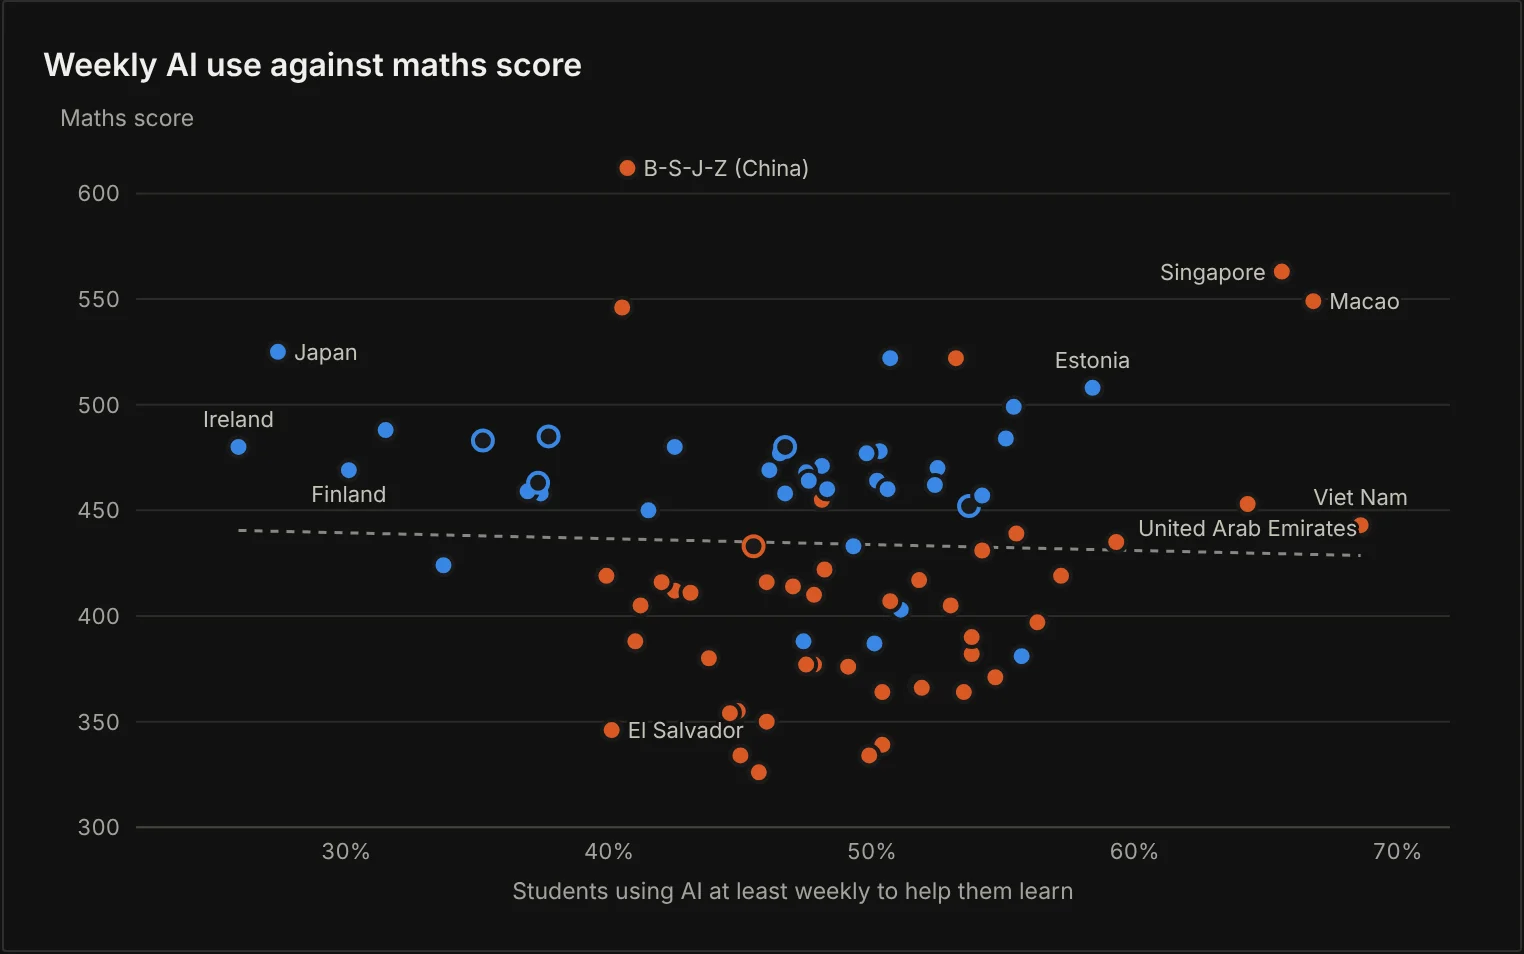
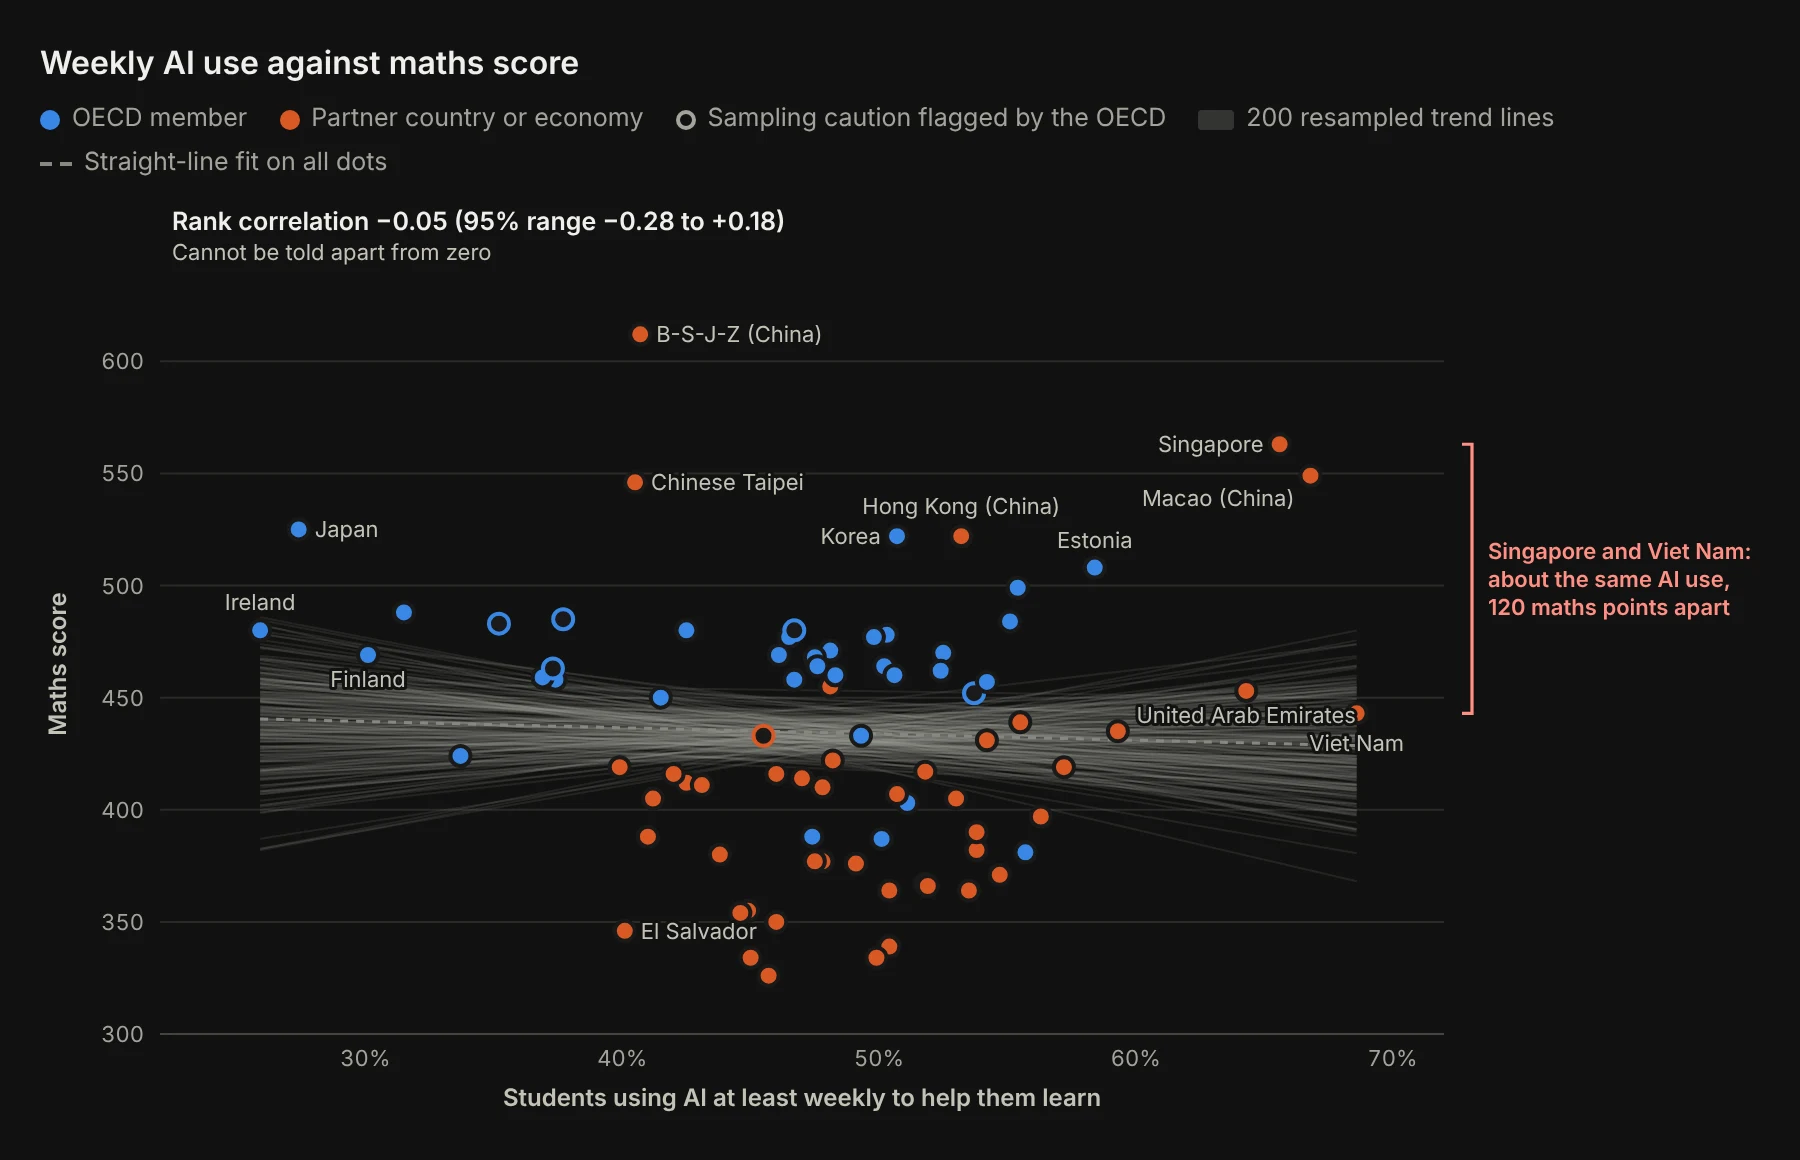
PISA: AI scatter with bootstrap trend-line fan, labeled axes on every chart, refreshed daily feature
The AI-vs-maths scatter now shows 200 resampled trend lines, an in-chart correlation label, a Singapore/Viet Nam bracket and labels for every country above 500. Y-axis titles sit beside the ticks, the correlation chart gets axis titles, and the pz-ai feature snapshot includes the legend.

Claude-Session: https://claude.ai/code/session_01UJ1HEyH6uF5w3cQEo98E3x

diff --git a/pisa-2025/index.html b/pisa-2025/index.html
@@ -56,10 +56,11 @@ b, strong { font-weight: 600; }
 .legend li { display: inline-flex; align-items: center; gap: 6px; }
 .sw { display: inline-block; width: 10px; height: 10px; border-radius: 50%; flex: none; }
 .sw.hollow { background: transparent; border: 2px solid var(--muted); }
+.sw.fan { width: 18px; height: 10px; border-radius: 2px; background: color-mix(in srgb, var(--ref) 28%, transparent); }
 .sw.dash { width: 16px; height: 0; border-radius: 0; border-top: 2px dashed var(--ref); }
 .tick { font-size: 11px; fill: var(--muted); font-variant-numeric: tabular-nums; }
 .lab { font-size: 11px; fill: var(--second); paint-order: stroke; stroke: var(--bg); stroke-width: 3px; stroke-linejoin: round; }
-.axl { font-size: 11.5px; fill: var(--muted); }
+.axl { font-size: 12px; font-weight: 600; fill: var(--second); }
 .gl { stroke: var(--grid); stroke-width: 1; }
 .al { stroke: var(--axis); stroke-width: 1; }
 .rf { stroke: var(--ref); stroke-width: 1.5; stroke-dasharray: 4 4; fill: none; }
@@ -150,9 +151,9 @@ th { position: sticky; top: 0; background: var(--panel); font-weight: 600; }
     <p>"Blame" is about change, not level, so the fairer test is AI use against the 2022-to-2025 change in maths: <b data-f="rAiCh"></b> across <b data-f="nAiCh"></b> countries <span class="badge" data-b="aiChange"></span>. Science (the main subject of PISA 2025), reading and computational problem solving give the same answer: <b data-f="rAiSci"></b>, <b data-f="rAiRead"></b> and <b data-f="rAiCps"></b>. Split by group the sign differs, <b data-f="rAiO"></b> among the 38 OECD members and <b data-f="rAiN"></b> among partners, but neither can be told apart from zero. Singapore and Viet Nam both have about two-thirds of students using AI at least weekly and sit 120 points apart; Japan and Ireland use it least and both sit above the 38 OECD members' mean of <b data-f="oecdMath"></b>.</p>
     <div class="card">
       <h3>Weekly AI use against maths score</h3>
-      <ul class="legend"><li><span class="sw" style="background:var(--s1)"></span>OECD member</li><li><span class="sw" style="background:var(--s2)"></span>Partner country or economy</li><li><span class="sw hollow"></span>Sampling caution flagged by the OECD</li><li><span class="sw dash"></span>Straight-line fit</li></ul>
+      <ul class="legend"><li><span class="sw" style="background:var(--s1)"></span>OECD member</li><li><span class="sw" style="background:var(--s2)"></span>Partner country or economy</li><li><span class="sw hollow"></span>Sampling caution flagged by the OECD</li><li><span class="sw fan"></span>200 resampled trend lines</li><li><span class="sw dash"></span>Straight-line fit on all dots</li></ul>
       <div class="chart" id="c-ai"></div>
-      <p class="note">Each dot is one country or economy. Share of students who say they use AI at least once a week to help them learn. Six systems did not report the AI questions and are left out.</p>
+      <p class="note">Each dot is one country or economy. Share of students who say they use AI at least once a week to help them learn. Six systems did not report the AI questions and are left out. The y-axis starts at 300, not zero. The faint grey lines are straight-line fits to 200 resamples of the countries: they lean up and down about equally, which is what no detectable link looks like. Hover a dot for details.</p>
     </div>
   </section>
 
@@ -256,7 +257,7 @@ document.querySelectorAll("[data-b]").forEach(e=>{const o=B[e.dataset.b];e.textC
 function tipFor(el){let t=el.querySelector(".tip");if(!t){t=document.createElement("div");t.className="tip";t.hidden=true;el.appendChild(t)}return t}
 function scatter(id,o){
   const el=document.getElementById(id);el.querySelectorAll("svg").forEach(s=>s.remove());
-  const W=el.clientWidth,Ht=o.h||Math.max(300,Math.min(460,W*.56)),m={t:12,r:16,b:42,l:46};
+  const W=el.clientWidth,Ht=o.h||Math.max(300,Math.min(460,W*.56)),m={t:o.stat?48:12,r:o.bracket?(W<560?62:158):16,b:42,l:60};
   const rows=D.filter(d=>d[o.x]!=null&&d[o.y]!=null);
   const x=d3.scaleLinear().domain(o.xd).range([m.l,W-m.r]),y=d3.scaleLinear().domain(o.yd).range([Ht-m.b,m.t]);
   const svg=d3.select(el).append("svg").attr("width",W).attr("height",Ht).attr("role","img").attr("aria-label",o.aria);
@@ -265,8 +266,11 @@ function scatter(id,o){
     svg.append("text").attr("class","tick").attr("x",m.l-8).attr("y",y(t)+4).attr("text-anchor","end").text(yf(t))});
   x.ticks(W<480?4:6).forEach(t=>svg.append("text").attr("class","tick").attr("x",x(t)).attr("y",Ht-m.b+16).attr("text-anchor","middle").text(xf(t)));
   svg.append("line").attr("class","al").attr("x1",m.l).attr("x2",W-m.r).attr("y1",Ht-m.b).attr("y2",Ht-m.b);
-  svg.append("text").attr("class","axl").attr("x",(m.l+W-m.r)/2).attr("y",Ht-6).attr("text-anchor","middle").text(o.xl);
-  svg.append("text").attr("class","axl").attr("x",m.l-38).attr("y",m.t-2).text(o.yl);
+  {const xt=svg.append("text").attr("class","axl").attr("x",(m.l+W-m.r)/2).attr("y",Ht-6).attr("text-anchor","middle").text(o.xl);if(xt.node().getBBox().width>W-8)xt.text(o.xl.replace("at least weekly to help them learn","weekly to learn"))}
+  svg.append("text").attr("class","axl").attr("transform",`translate(13,${(m.t+Ht-m.b)/2}) rotate(-90)`).attr("text-anchor","middle").text(o.yl);
+  if(o.fan){let sd=7;const rnd=()=>{sd|=0;sd=sd+0x6D2B79F5|0;let t=Math.imul(sd^sd>>>15,1|sd);t=t+Math.imul(t^t>>>7,61|t)^t;return((t^t>>>14)>>>0)/4294967296},n=rows.length,x0=d3.min(rows,d=>d[o.x]),x1=d3.max(rows,d=>d[o.x]);
+    for(let k=0;k<200;k++){const idx=Array.from({length:n},()=>Math.floor(rnd()*n)),mx=d3.mean(idx,i=>rows[i][o.x]),my=d3.mean(idx,i=>rows[i][o.y]),dn=d3.sum(idx,i=>(rows[i][o.x]-mx)**2);if(!dn)continue;
+      const b=d3.sum(idx,i=>(rows[i][o.x]-mx)*(rows[i][o.y]-my))/dn,a=my-b*mx;svg.append("line").attr("x1",x(x0)).attr("y1",y(a+b*x0)).attr("x2",x(x1)).attr("y2",y(a+b*x1)).attr("stroke","var(--muted)").attr("stroke-opacity",.13).attr("stroke-width",1)}}
   if(o.diag){const a=Math.max(o.xd[0],o.yd[0]),b=Math.min(o.xd[1],o.yd[1]);svg.append("line").attr("class","rf").attr("x1",x(a)).attr("y1",y(a)).attr("x2",x(b)).attr("y2",y(b))}
   else{const mx=d3.mean(rows,d=>d[o.x]),my=d3.mean(rows,d=>d[o.y]);const b=d3.sum(rows,d=>(d[o.x]-mx)*(d[o.y]-my))/d3.sum(rows,d=>(d[o.x]-mx)**2),a=my-b*mx;
     const x0=d3.min(rows,d=>d[o.x]),x1=d3.max(rows,d=>d[o.x]);svg.append("line").attr("class","rf").attr("x1",x(x0)).attr("y1",y(a+b*x0)).attr("x2",x(x1)).attr("y2",y(a+b*x1))}
@@ -275,7 +279,14 @@ function scatter(id,o){
   g.selectAll("circle").data(rows).join("circle").attr("cx",d=>x(d[o.x])).attr("cy",d=>y(d[o.y])).attr("r",5)
     .attr("fill",d=>d.caution==="Yes"?"var(--panel)":col(d)).attr("stroke",d=>d.caution==="Yes"?col(d):"var(--panel)").attr("stroke-width",2);
   (o.labels||[]).forEach(([c,dx,dy,anc,txt])=>{const d=rows.find(r=>r.country===c);if(!d)return;
-    svg.append("text").attr("class","lab").attr("x",x(d[o.x])+dx).attr("y",y(d[o.y])+dy).attr("text-anchor",anc||"start").text(txt||c)});
+    const t=svg.append("text").attr("class","lab").attr("x",x(d[o.x])+dx).attr("y",y(d[o.y])+dy).attr("text-anchor",anc||"start").text(txt||c),bb=t.node().getBBox();
+    if(bb.x+bb.width>W-m.r-2){t.attr("text-anchor","end").attr("x",x(d[o.x])-Math.max(8,Math.abs(dx))).attr("y",y(d[o.y])+Math.max(dy,12))}
+    else if(bb.x<m.l-2){t.attr("text-anchor","start").attr("x",x(d[o.x])+Math.max(8,Math.abs(dx)))}});
+  if(o.stat){svg.append("text").attr("class","lab").style("fill","var(--fg)").style("font-weight",600).style("font-size","12.5px").attr("x",m.l+6).attr("y",m.t-32).text(o.stat[0]);svg.append("text").attr("class","lab").attr("x",m.l+6).attr("y",m.t-17).text(o.stat[1])}
+  if(o.bracket){const a=rows.find(r=>r.country===o.bracket[0]),b=rows.find(r=>r.country===o.bracket[1]),bx=W-m.r+14,ya=y(a[o.y]),yb=y(b[o.y]),gap=Math.round(Math.abs(a[o.y]-b[o.y])),
+      lines=W<560?[gap+" points","apart"]:[o.bracket[0]+" and "+o.bracket[1]+":","about the same AI use,",gap+" maths points apart"];
+    svg.append("path").attr("d",`M${bx-5},${ya}H${bx}V${yb}H${bx-5}`).attr("fill","none").attr("stroke","var(--pen)").attr("stroke-width",1.6);
+    lines.forEach((ln,i)=>svg.append("text").attr("class","lab").style("fill","var(--pen)").style("font-weight",600).attr("x",bx+8).attr("y",(ya+yb)/2-(lines.length-1)*7+i*14+4).text(ln))}
   const tip=tipFor(el),del=d3.Delaunay.from(rows,d=>x(d[o.x]),d=>y(d[o.y]));let cur=null;
   svg.on("pointermove",ev=>{const [px,py]=d3.pointer(ev);const i=del.find(px,py),d=rows[i];
     if(Math.hypot(x(d[o.x])-px,y(d[o.y])-py)>28){hide();return}
@@ -287,15 +298,17 @@ function scatter(id,o){
 }
 function corr(id){
   const el=document.getElementById(id);el.querySelectorAll("svg").forEach(s=>s.remove());
-  const W=el.clientWidth,rows=S.vsMath,narrow=W<560,rh=narrow?52:38,m={t:22,r:20,b:28,l:narrow?12:330},Ht=m.t+rows.length*rh+m.b;
+  const W=el.clientWidth,rows=S.vsMath,narrow=W<560,rh=narrow?52:38,m={t:narrow?46:36,r:20,b:52,l:narrow?12:330},Ht=m.t+rows.length*rh+m.b;
   const x=d3.scaleLinear().domain([-.5,1]).range([m.l,W-m.r]);
   const svg=d3.select(el).append("svg").attr("width",W).attr("height",Ht).attr("role","img").attr("aria-label","Rank correlation of six digital measures with maths score; only school digital capacity is clearly above zero");
   [-.5,0,.5,1].forEach(t=>{svg.append("line").attr("class",t===0?"al":"gl").attr("x1",x(t)).attr("x2",x(t)).attr("y1",m.t-6).attr("y2",Ht-m.b);
     svg.append("text").attr("class","tick").attr("x",x(t)).attr("y",Ht-m.b+16).attr("text-anchor","middle").text(t===0?"0":sg(t))});
-  svg.append("text").attr("class","axl").attr("x",x(0)).attr("y",10).attr("text-anchor","middle").text("no relationship");
+  svg.append("text").attr("class","axl").attr("x",x(0)).attr("y",m.t-12).attr("text-anchor","middle").text("no relationship");
+  svg.append("text").attr("class","axl").style("font-weight",600).attr("x",0).attr("y",12).text("Digital measure");
+  svg.append("text").attr("class","axl").style("font-weight",600).attr("x",(m.l+W-m.r)/2).attr("y",Ht-8).attr("text-anchor","middle").text("Rank correlation with maths score (95% range)");
   const tip=tipFor(el);
   rows.forEach((r,i)=>{const cy=m.t+i*rh+(narrow?32:rh/2),g=svg.append("g");
-    svg.append("text").attr("class","tick").style("font-size","12.5px").style("fill","var(--fg)").attr("x",narrow?m.l:m.l-14).attr("y",narrow?cy-14:cy+4).attr("text-anchor",narrow?"start":"end").text(r.name);
+    svg.append("text").attr("class","tick").style("font-size","12.5px").style("fill","var(--fg)").attr("x",narrow?m.l:m.l-14).attr("y",narrow?cy-14:cy+4).attr("text-anchor",narrow?"start":"end").text(narrow?r.name.replace("Students in schools where","Schools where"):r.name);
     g.append("line").attr("x1",x(r.lo)).attr("x2",x(r.hi)).attr("y1",cy).attr("y2",cy).attr("stroke",r.sig?"var(--s1)":"var(--ref)").attr("stroke-width",2).attr("stroke-linecap","round");
     g.append("circle").attr("cx",x(r.r)).attr("cy",cy).attr("r",6).attr("fill",r.sig?"var(--s1)":"var(--ref)").attr("stroke","var(--panel)").attr("stroke-width",2);
     svg.append("text").attr("class","lab").style("fill","var(--fg)").attr("x",x(r.hi)+8).attr("y",cy+4).text(sg(r.r));
@@ -306,9 +319,10 @@ function corr(id){
 }
 function draw(){
   const n=document.getElementById("c-ai").clientWidth<560;
-  scatter("c-ai",{x:"ai",y:"math",xd:[.22,.72],yd:[300,630],xl:"Students using AI at least weekly to help them learn",yl:"Maths score",xt:"Weekly AI use",yt:"Maths",
-    aria:"Scatter of weekly AI use against maths score for 85 countries, showing no relationship",
-    labels:[["Ireland",0,-10,"middle"],["Japan",8,4],["Viet Nam",0,-10,"middle"],["Singapore",-8,4,"end"],["Macao (China)",8,4,null,"Macao"],["B-S-J-Z (China)",8,4],["United Arab Emirates",0,16,"middle",n?"UAE":null],["Finland",0,16,"middle"],["El Salvador",8,4],["Estonia",0,-10,"middle"]]});
+  scatter("c-ai",{x:"ai",y:"math",h:n?400:null,xd:[.22,.72],yd:[300,630],xl:"Students using AI at least weekly to help them learn",yl:"Maths score",xt:"Weekly AI use",yt:"Maths",fan:true,bracket:["Singapore","Viet Nam"],
+    stat:["Rank correlation "+sg(S.aiMath.r)+(n?"":" (95% range "+ci(S.aiMath)+")"),n?"95% range "+ci(S.aiMath)+": zero":"Cannot be told apart from zero"],
+    aria:"Scatter of weekly AI use against maths score for 85 countries with 200 resampled trend lines pointing in both directions: no relationship",
+    labels:(n?[["Japan",8,4],["Viet Nam",0,19,"middle"],["Singapore",-8,4,"end"],["B-S-J-Z (China)",8,4],["El Salvador",8,4]]:[["Ireland",0,-10,"middle"],["Japan",8,4],["Viet Nam",0,19,"middle"],["Singapore",-8,4,"end"],["Macao (China)",-8,15,"end"],["B-S-J-Z (China)",8,4],["United Arab Emirates",0,16,"middle"],["Finland",0,16,"middle"],["El Salvador",8,4],["Estonia",0,-10,"middle"],["Chinese Taipei",8,4],["Hong Kong (China)",0,-11,"middle"],["Korea",-8,4,"end"]])});
   scatter("c-bd",{x:"ban",y:"nodist",h:340,xd:[0,1],yd:[.1,.82],yf:v=>Math.round(v*100)+"%",xl:"Students in schools that don't allow phones",yl:"No distraction",xt:"Phones not allowed",yt:"No distraction",
     aria:"Scatter of phone bans against students reporting no digital distraction, showing a moderate positive relationship",
     labels:[["Japan",8,-4],["Korea",-8,4,"end"],["Australia",-8,4,"end"],["Uruguay",8,4],["Saudi Arabia",-8,-6,"end"],["Finland",8,4],["Greece",0,-10,"end"]]});

diff --git a/index.html b/index.html
@@ -169,7 +169,7 @@ else if(y){const ms=MS.filter(x=>x.y===+y.dataset.y);const a=ms[0].i,b=ms[ms.len
 else return;tl();draw()};
 document.getElementById("clr").onclick=()=>{S.a=S.b=null;S.pend=false;tl();draw()};
 tl();draw();
-const FEAT=[{"k": "hb-size", "u": "hot-air-balloons/", "t": "Who ordered the bigger sofa?", "o": "The typical hot air balloon has been the same size for 35 years: the median is 90,000 cubic feet in every build period since 1990. The big end is another story. One in ten balloons built in the 2020s is 210,000 cubic feet or more, double the 1990s mark, and ride companies top the list of owners. Same bed for the pug, much bigger sofa for the guests. The pug will be testing the sofa.", "w": 1612, "h": 1526}, {"k": "pz-ai", "u": "pisa-2025/", "t": "Did the chatbot do the homework?", "o": "Weekly AI use among 15-year-olds runs from 26% in Ireland to 69% in Viet Nam, and it shows no detectable link with a country’s maths score: the rank correlation is −0.05, and it is +0.03 against the change since 2022. No paw prints on the scoreboard, though the pug would still like a word with the robot.", "w": 1524, "h": 954}, {"k": "mc-trend", "u": "more-cowbell/", "t": "When did the cowbell have rizz?", "o": "In the 1970s: 231 songs, 37% of every dated song on the list. By the 2010s the count was down to 2. The pug has a fever, and you know the prescription.", "w": 1072, "h": 572}, {"k": "cc-map", "u": "census-century/", "t": "How far can the middle of a country wander?", "o": "Between 1790 and 1900 the estimated centre of the U.S. population moved about 500 miles, almost due west, from near Baltimore to southern Indiana. That works out to roughly 65 feet a day, a pace even a pug could keep up with.", "w": 1552, "h": 974}, {"k": "bb-stops", "u": "bigs-backyard/", "t": "Why does everyone get tired at exactly 100 miles?", "o": "In the 2026 championship, 60 runners stopped at exactly 24 yards, the 100-mile mark. That is 2.58 times the average of the yards around it, and a smaller pile-up follows at 48 yards. Round numbers are a magnet. The pug calls it a day at the mailbox, so no judgment.", "w": 1600, "h": 515}, {"k": "bw-animals", "u": "bears-will-be-boys/", "t": "Where are all the girl frogs?", "o": "In these picture books, 16 of 17 frogs are he/him. Bears lead the cast with 95 characters, and 62% of them are boys. Among the common animals, only birds and ducks have more girls than boys. The pug would like a word with the casting department.", "w": 1600, "h": 929}, {"k": "tn-offseason", "u": "tourism-nights/", "t": "Who’s still on holiday after the beach closes?", "o": "Across the EU, 18.1% of 2025’s platform-booked nights fell in October to December. Alsace and Northern and Eastern Finland sit far above that line, while the South Aegean and Ionian Islands sit far below it. The pug goes wherever dinner is being served.", "w": 1600, "h": 738}, {"k": "uf-rate", "u": "ufo-sightings/", "t": "Which state really keeps its eyes on the sky?", "o": "Florida, California and Texas send the most UFO reports, but they also have the most people. Per resident, New Mexico leads with 11.8 reports per million against 4.0 nationally, while California falls from #2 to #42 and Texas from #3 to #43 (both far down the full chart). The pug barks at the sky in every state, for the record.", "w": 1600, "h": 607}, {"k": "cf-scatter", "u": "cfb-budgets/", "t": "Can you buy your way into the Top 25?", "o": "It certainly helps. All ten of the biggest roster budgets are in the AP Top 25, and ranked teams spend about $13M more than everyone else. But Houston, Iowa and Utah made the poll on below-median budgets, so money is not the only way in. The pug’s vote can be bought with treats.", "w": 1600, "h": 1054}];
+const FEAT=[{"k": "hb-size", "u": "hot-air-balloons/", "t": "Who ordered the bigger sofa?", "o": "The typical hot air balloon has been the same size for 35 years: the median is 90,000 cubic feet in every build period since 1990. The big end is another story. One in ten balloons built in the 2020s is 210,000 cubic feet or more, double the 1990s mark, and ride companies top the list of owners. Same bed for the pug, much bigger sofa for the guests. The pug will be testing the sofa.", "w": 1612, "h": 1526}, {"k": "pz-ai", "u": "pisa-2025/", "t": "Did the chatbot do the homework?", "o": "Weekly AI use among 15-year-olds runs from 26% in Ireland to 69% in Viet Nam, and it shows no detectable link with a country’s maths score: the rank correlation is −0.05, and it is +0.03 against the change since 2022. No paw prints on the scoreboard, though the pug would still like a word with the robot.", "w": 1800, "h": 1160}, {"k": "mc-trend", "u": "more-cowbell/", "t": "When did the cowbell have rizz?", "o": "In the 1970s: 231 songs, 37% of every dated song on the list. By the 2010s the count was down to 2. The pug has a fever, and you know the prescription.", "w": 1072, "h": 572}, {"k": "cc-map", "u": "census-century/", "t": "How far can the middle of a country wander?", "o": "Between 1790 and 1900 the estimated centre of the U.S. population moved about 500 miles, almost due west, from near Baltimore to southern Indiana. That works out to roughly 65 feet a day, a pace even a pug could keep up with.", "w": 1552, "h": 974}, {"k": "bb-stops", "u": "bigs-backyard/", "t": "Why does everyone get tired at exactly 100 miles?", "o": "In the 2026 championship, 60 runners stopped at exactly 24 yards, the 100-mile mark. That is 2.58 times the average of the yards around it, and a smaller pile-up follows at 48 yards. Round numbers are a magnet. The pug calls it a day at the mailbox, so no judgment.", "w": 1600, "h": 515}, {"k": "bw-animals", "u": "bears-will-be-boys/", "t": "Where are all the girl frogs?", "o": "In these picture books, 16 of 17 frogs are he/him. Bears lead the cast with 95 characters, and 62% of them are boys. Among the common animals, only birds and ducks have more girls than boys. The pug would like a word with the casting department.", "w": 1600, "h": 929}, {"k": "tn-offseason", "u": "tourism-nights/", "t": "Who’s still on holiday after the beach closes?", "o": "Across the EU, 18.1% of 2025’s platform-booked nights fell in October to December. Alsace and Northern and Eastern Finland sit far above that line, while the South Aegean and Ionian Islands sit far below it. The pug goes wherever dinner is being served.", "w": 1600, "h": 738}, {"k": "uf-rate", "u": "ufo-sightings/", "t": "Which state really keeps its eyes on the sky?", "o": "Florida, California and Texas send the most UFO reports, but they also have the most people. Per resident, New Mexico leads with 11.8 reports per million against 4.0 nationally, while California falls from #2 to #42 and Texas from #3 to #43 (both far down the full chart). The pug barks at the sky in every state, for the record.", "w": 1600, "h": 607}, {"k": "cf-scatter", "u": "cfb-budgets/", "t": "Can you buy your way into the Top 25?", "o": "It certainly helps. All ten of the biggest roster budgets are in the AP Top 25, and ranked teams spend about $13M more than everyone else. But Houston, Iowa and Utah made the poll on below-median budgets, so money is not the only way in. The pug’s vote can be bought with treats.", "w": 1600, "h": 1054}];
 (function potd(){const now=new Date(),day=Math.floor(Date.UTC(now.getFullYear(),now.getMonth(),now.getDate())/864e5),f=FEAT[day%FEAT.length],p=P.find(x=>x.u===f.u);if(!p)return;
 const q="q"+(Math.floor(p.mo/3)+1),el=document.getElementById("potd");el.className="potd-body "+q;
 document.getElementById("potd-date").textContent=now.toLocaleDateString("en-US",{weekday:"long",month:"long",day:"numeric",year:"numeric"});
